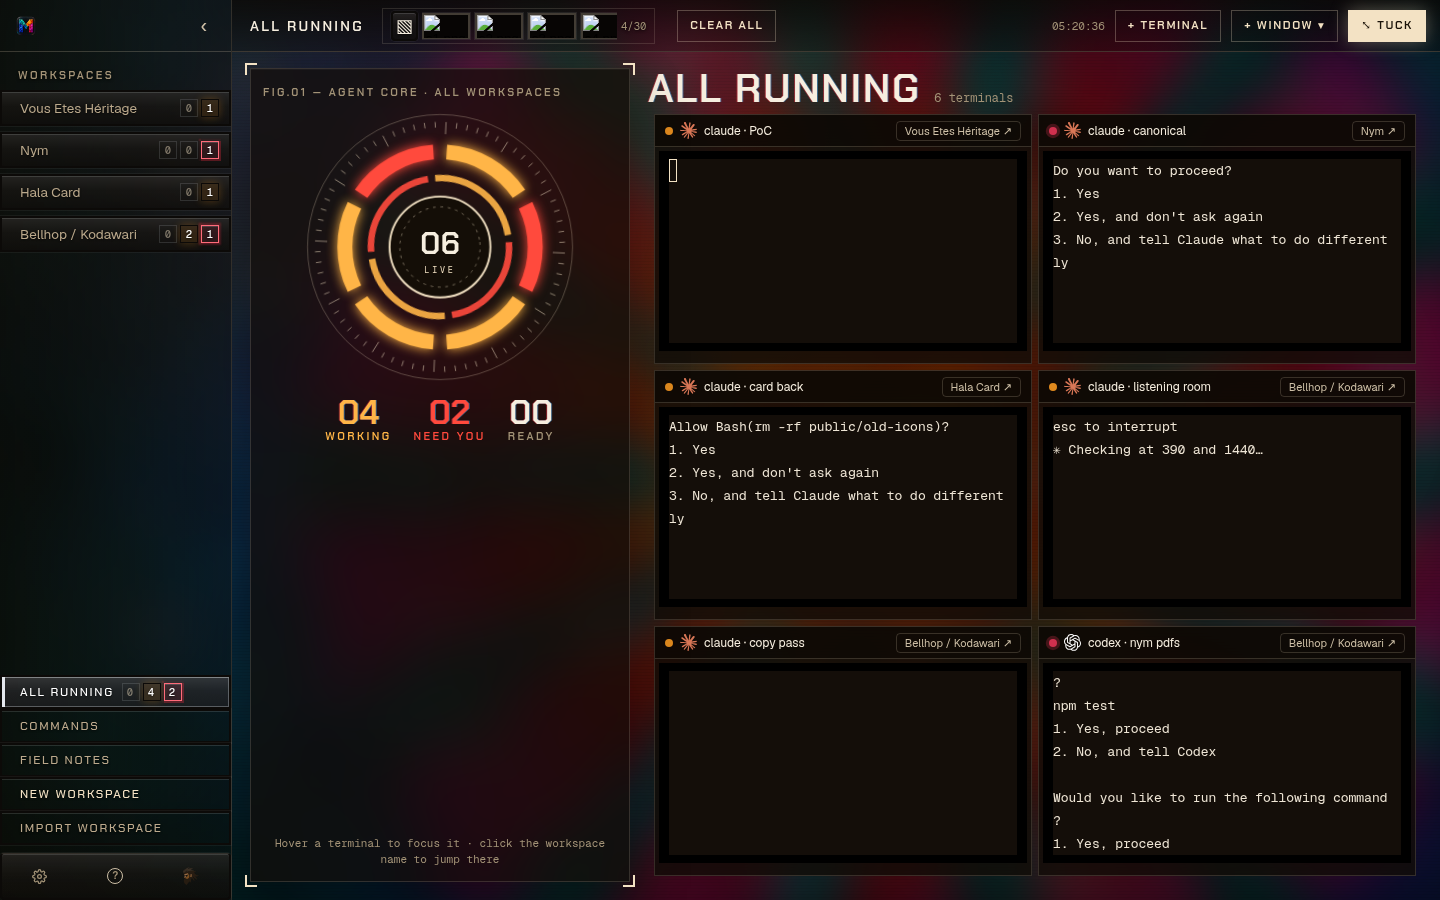
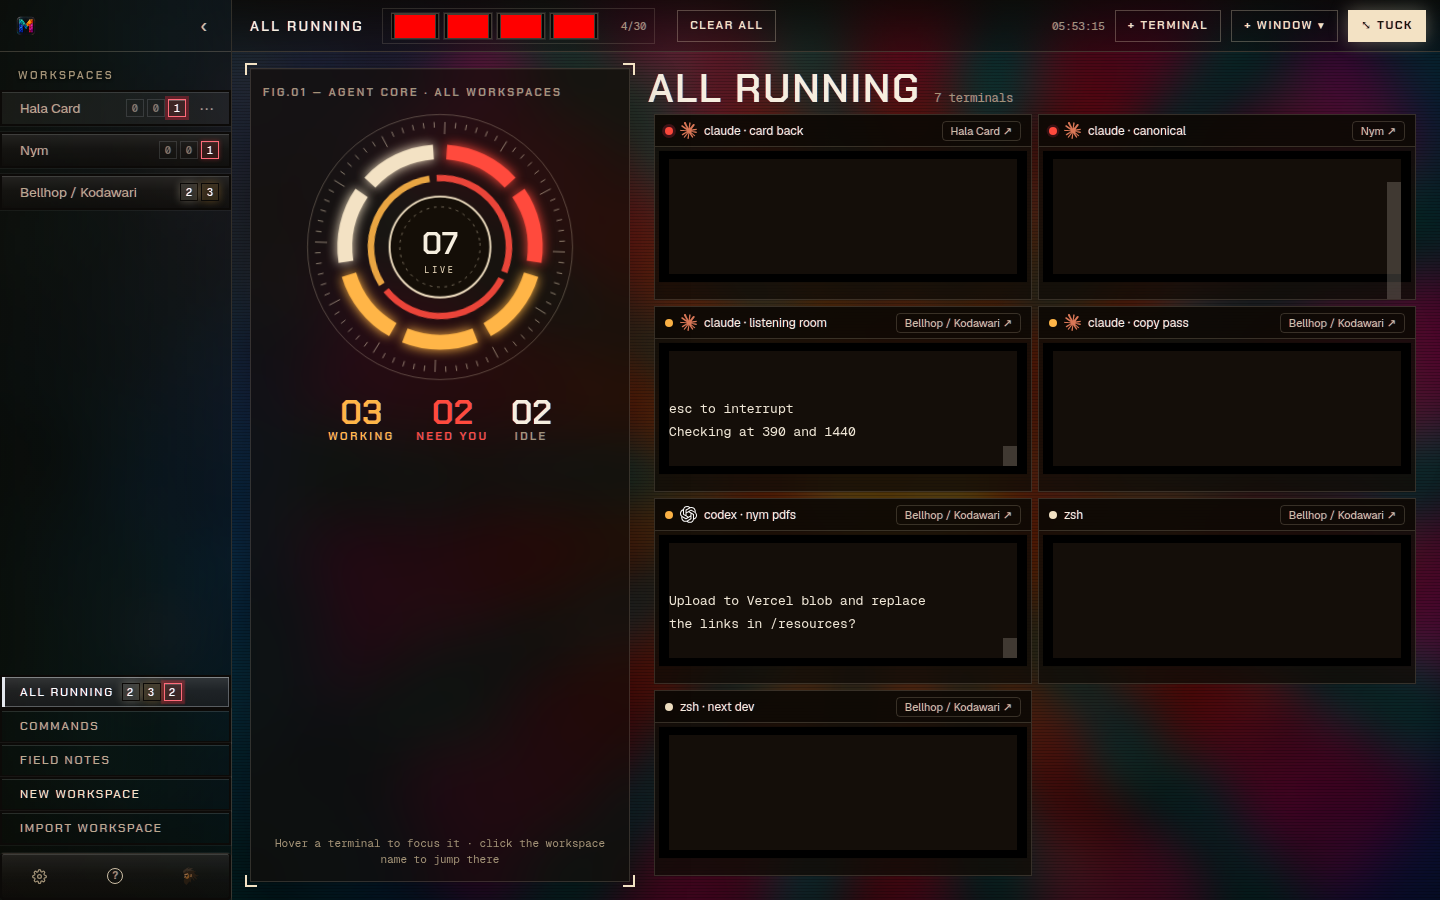
Update the redesign QA for the approval and chrome fixes.
Rechecks every round-1 item on the latest workshop branch and records what still fails.

diff --git a/qa/REPORT.md b/qa/REPORT.md
@@ -1,130 +1,112 @@
-# Mosaic redesign QA
+# Mosaic redesign QA — round 2
 
-**Score: 6/10.** The workshop frame is the right design, but the guide's own approval prompt is never detected, Approve leaves that alarm up, and the ring total, status chips, and usage grid do not match the guide.
+**Score: 7/10.** The round-1 approval alarm and the chrome checklist are fixed and rechecked; Deny on Claude's three-option menu still types "Yes, and don't ask again", and the ring is 03 beside the guide's 02/01/00 rather than 04.
 
-Reviewed PR #1 (`cursor/mosaic-redesign-6c1c` into `zen-panel`, commit `2d2cbbd`) against the design-guide image and the mockup source. The bar for done is 9/10. This branch does not change production code.
+Rebased `qa/mosaic-redesign-review` onto `afacbf6` (`cursor/mosaic-redesign-6c1c`). The builder's checklist was not taken as evidence. Same method as round 1: Vite at 1440×900, Tauri stubbed, prompt text written through the `pty-data-*` listener. The guide was remeasured from the mockup after boot: Working **02**, Need you **01**, Ready **00**, ring **04**.
 
-## How it was tested
+## Verified fixed
 
-Both UIs were shot at **1440×900**, the mockup's unscaled frame (`--fit` is 1 at that size).
-
-- Reference: the uploaded mockup, served locally, after the boot animation settled (`#cWork` reads `02`). Shots are `qa/screenshots/ref-*.png`.
-- App: `npm run dev` (Vite on `127.0.0.1:1420`) in headless Chrome. Outside the Tauri webview, `window.isTauri` and `__TAURI_INTERNALS__.invoke` were stubbed in the page so `pty_statuses`, `pty_write`, `provider_usage`, and `list_screenshots` could be driven. Prompt text was written into xterm through the `pty-data-*` listener, the same path a PTY uses. Shots are `qa/screenshots/app-*.png`.
-- Field notes absence used the real tree: `my-clients.js`, `workstreams-data.js`, and `files/` are not on this machine. A second load answered those script URLs only inside the browser, to prove the dashboard reads the page rather than a hardcoded total.
-- `npx tsc --noEmit` passed. There is no lint script and no frontend test script. `cargo check` is below.
-
-## P1 — functional failures
-
-### 1. The design guide's approval prompt is never detected
-
-The incoming card in the guide is **Hala Card · Allow Bash(rm -rf public/old-icons)?** with Approve / Deny / Open. That sentence, including when it is followed by `1. Yes` / `2. No, and tell Claude…`, is classified `unknown`.
-
-`src/lib/agents.ts:128-160`. Claude is recognized only by `do you want to proceed|make this edit|run this|create` (line 130) or by `waiting for your input` / `permission required` (line 160). `Allow Bash(…)?` matches none of those.
-
-Checked two ways:
-
-- Imported the app's own `detectScreenState` in the page. `Allow Bash(rm -rf public/old-icons)?` plus numbered Yes/No returned `{ state: "unknown" }`. `Do you want to proceed?` returned `attention` with approve keystroke `1\r`. Codex `Would you like to run the following command?` returned `attention` with `1\r` / `2\r`.
-- Wrote the Allow Bash screen into Hala Card's terminal, padded so it sits in the last 24 rows (`screenWindow` in `agents.ts:93`). The incoming card showed Nym's "Do you want to proceed?", and Hala's sidebar chip stayed off the attention color. All Running still showed the Allow Bash text under a working dot (`qa/screenshots/app-all.png`).
-
-Expected: that prompt is the red incoming card and a red terminal, with Approve / Deny / Open, as in the guide and `qa/screenshots/ref-workspace.png`.
-
-Hooks can still force `attention`, but then `sessionToMeta` falls through to the default offer (`Waiting for approval`, `y\r` / `n\r`) because `extractApproval` only runs when the screen state is already `attention` (`Terminal.tsx:238-239`). The question on screen is dropped.
-
-### 2. Approve sends the key and leaves the alarm up
-
-On Bellhop, the incoming card showed **Nym · Claude Code · just now · Do you want to proceed?** Approve called `pty_write` with `1\r`. The card, the Approve button, and the prompt were still there immediately afterward (`qa/screenshots/app-bellhop.png` then `qa/screenshots/app-after-approve.png`).
-
-`classifyStatus` returns `attention` whenever the screen still says so, before it looks at the answer (`src/lib/agents.ts:180-181`). `answered` is only applied to hook/notification state on the next line. `App.tsx:212-213` says answering should drop the red immediately. It does not, for the screen path that actually draws this card.
-
-Expected: the guide's Approve dismisses the waiting treatment (the mockup removes the alarm and the action row). A second click sends `1` again into a terminal that is still painted as waiting.
-
-Deny and Reply do send the right bytes (below). They have the same latch, so the red chrome stays until the screen text itself changes.
-
-## P2 — visual mismatches against the guide
-
-### 3. Ring center adds in shells the three labels do not show
-
-On Bellhop the ring read **05** beside **02 Working / 01 Need you / 00 Ready** (`qa/screenshots/app-bellhop.png`). The guide's same board is **04** beside **02 / 01 / 00** (`qa/screenshots/ref-workspace.png`).
-
-`WorkspaceDashboard.tsx:51` sets the center to `terminals + working + ready + attention`. The two zsh panes are `terminal` status, so they inflate the center and do not appear in the three labels. All Running does the same sum (`AllRunningView.tsx:57`, center **06** beside 04 working and 02 need-you).
-
-Expected: the guide's center number is the workspace figure printed in the ring (04 on that board), with the three labels reading 02 / 01 / 00.
-
-### 4. Status chips use the old jewel palette
-
-The first live sidebar chip computed to `rgb(47, 111, 214)` (`#2f6fd6`). That is `STATUS_COLORS.terminal` in `src/lib/agents.ts:255-262` (`terminal #2f6fd6`, `running #e08a1e`, `attention #d0304e`). The guide's chips are cream `#F3E2C4`, amber `#FFB547`, and ruby `#FF4A3D` (mockup `counters()`, and the same tokens the ring already uses in `src/lib/approvals.ts` `TONE`). Tab dots take the same `STATUS_COLORS` via `--tab-status`.
-
-Expected: cream / amber / ruby chips and dots, matching the ring and the guide.
-
-### 5. All Running's third figure is Ready, and the guide's is Idle
-
-`AllRunningView.tsx:68` labels the third number **Ready** and binds it to `counts.ready`. The guide and `qa/screenshots/ref-all.png` label it **Idle** (muted), with the footnote "click ↗ to jump to its workspace". The app's footnote says "click the workspace name" (`AllRunningView.tsx:70`). The jump itself works.
-
-### 6. Usage sits in half a row and wraps to two columns
-
-Five panels become a 3-then-2 grid (`WorkspaceGrid.tsx:159`, `Math.ceil(Math.sqrt(n))`), and the second row splits 50/50. Measured usage track: `261.5px 261.5px` (`UsagePanel.css:33-34`, `minmax(220px, 1fr)`). The guide gives Hot Links one column and AI usage the other two, with Claude, Codex, Cursor, Antigravity, and DeepSeek in one row (`qa/screenshots/ref-workspace.png`). DeepSeek is below the fold in `qa/screenshots/app-bellhop.png`.
-
-The card contents (rate-limit copy, percents, reset lines, DeepSeek balance) render when `provider_usage` returns data. The frame they sit in does not match.
-
-### 7. Commands is a stack of cards, and the guide is a heat table
-
-Search works (`qa/screenshots/app-commands.png` filters to the postgres command). The guide is one panel of rows: heat pips, command, label, category, count, Copy (`qa/screenshots/ref-commands.png`). The app is separate glass cards.
-
-### 8. The CRT grade is a light wash
-
-Workshop tokens, Chakra Petch / Geist, square panels, corner brackets, and the glass photo are in place. The guide also puts a red/blue split on every glyph (mockup `.app *` text-shadow), a heavier scanline, grain, and RGB subpixel lines. The app applies the split only through `.ca` (`src/workshop.css:64-66`) and a scan at opacity 0.28 (`workshop.css:82-85`). Body copy in the shots is clean, which reads as a different picture from `qa/screenshots/ref-workspace.png`.
-
-### 9. The Codex sentence printed in the guide is also unrecognized
-
-`Upload to Vercel blob and replace the links in /resources?` returns `unknown`. The real Codex TUI line `Would you like to run the following command?` is recognized, and that pane did grow an Approve / Deny / Reply bar (`qa/screenshots/app-bellhop.png`). The sentence in the guide's middle terminal would not.
-
-## P3 — polish
-
-- Age copy is **just now** for under a minute (`src/lib/approvals.ts:14-16`). The guide's incoming card uses a minute stamp (`0m ago` on the design image, `6m ago` in the mockup source).
-- All Running does not toggle back to the workspace. Other nav items do (`App.tsx:414-416`). All Running always sets `view` to `"all"` (`App.tsx:443`). A second click stayed on All Running. The mockup returns to the workspace.
-- Terminal header icons are a briefcase and an eraser. The guide uses ⌸ and ⌫.
-- The screenshot strip adds a folder glyph before the thumbs. The guide is thumbs plus a count.
-
-## What passed
-
-Checked in the running UI unless noted as a diff or typecheck.
-
-- **Sidebar counts** render per workspace and on All Running, and they change when sessions change (Bellhop went from `2,3` to `0,3` after the zsh sessions dropped out of `pty_statuses`).
-- **Status ring** shows Working / Need you / Ready from live status, with the spinning ticks and the "THIS WORKSPACE" label.
-- **Incoming card** appears for a prompt the parser knows (`Do you want to proceed?`), from another workspace. Approve writes `1\r`. Deny writes `2\r`. Open switched the title from Bellhop / Kodawari to Hala Card.
-- **Reply** on the visible Codex pane opened the field and `pty_write` received `ship the pdfs\r`.
-- **Hot links**: search for "vercel" hid mixcloud; A–Z ordered Instagram, then Kodawari · Vercel, then the pdf, then mixcloud; Launch issued `open_path` once per item (`qa/screenshots/app-search.png`).
-- **AI usage** renders five providers from `provider_usage` (layout issue is P2).
-- **Nav**: All Running, Commands (search), Field notes, New workspace (count increased, title became Workspace 4), Import workspace (a `.json` bundle named "Imported QA" landed in the sidebar), Settings, What's this, Caveman Creative.
-- **Clear all** hid the strip and read "Cleared · new shots will show up here".
-- **+ Terminal**, **+ Window** (Terminal, Launcher board, AI usage, Field notes, Zen Studio), and **Tuck** are in the top bar. Choosing Zen Studio added a Zen Studio panel (`qa/screenshots/app-window-menu.png`).
-- **Field notes, files absent**: the dashboard says "No client data on this machine…" and does not show 92/133 (`qa/screenshots/app-empty.png`). The missing scripts 404 and do not throw. With a browser-only client fixture, the dashboard read the iframe's postMessage as **1 / 3**, **1 active · 2 remaining**, short name VEH, and the Field notes view listed that client (`qa/screenshots/app-notes.png`).
-- **Diff hygiene**: `origin/zen-panel...HEAD` does not touch `my-clients.js`, `workstreams-data.js`, or `public/fieldnotes/files/`. `.gitignore` gains `public/fieldnotes/files/`.
-- **Drag a panel onto a workspace**: Bellhop went from 5 panels to 4, and Hala Card gained the "claude · listening room" terminal (`qa/screenshots/app-drag.png`). `movePanelToWorkspace` in `src/store/workspaces.ts:145`.
-- **Tab rename**: a `dblclick` on the Codex tab opened the input seeded with `codex · nym pdfs`.
-- **Settings** keeps the screenshot-folder copy ("it no longer scans Desktop by default"), the macOS file-access row, themes, launch at login, and Claude hooks (`qa/screenshots/app-settings.png`). `list_screenshots` returns an empty list when no folder is set (`src-tauri/src/screenshots.rs:35-42`).
-- **`npx tsc --noEmit`** exited 0.
-
-## Needs Mac verification
-
-These paths were read, not exercised against macOS, a live agent, or a logged-in provider.
-
-- **Live Claude / Codex approval.** The web UI writes the choice through `pty_write` (`src/lib/approvals.ts:9-11`). Whether Claude's or Codex's TUI accepts that key, and whether a real full-screen prompt lands inside the last 24 rows (`agents.ts:93`), needs a Mac session. The Allow Bash miss above does not need a Mac; it fails on the string alone.
-- **Claude hooks and Codex OSC notifications** (`src-tauri/src/agents.rs`, `Terminal.tsx:209-226`). A hook-reported `attention` still will not clear on answer while the screen state remains `attention` (P1.2).
-- **Provider usage cards** from real logins (`UsagePanel.tsx` `provider_usage`). The layout bug is visible without them.
-- **Tuck.** The button calls `toggleScreenshotMode` (`App.tsx:110-151`): leave fullscreen, shrink to 360×200, pin to the bottom-right of the current monitor, `setAlwaysOnTop(true)`. `screenshotMode` is set true before `setSize` / `setPosition`. If either throws, the next click takes the restore branch. Geometry and the global shortcut (`toggle-screenshot-mode`) need a Mac window.
-- **Screenshot thumbnails** go through `sips` (`screenshots.rs:61`). This Linux run cannot. Clear-all behavior was tested with stubbed file metadata.
-- **Desktop permission.** With no folder chosen, the gallery does not read Desktop (`screenshots.rs:36-42`). `open_privacy_settings` (`src-tauri/src/lib.rs:191-210`) tries the Files and Folders URL, then Full Disk Access, then Security. Those URLs were not opened.
-- **Zen Studio.** The menu adds the panel. The panel polls `http://localhost:3003/` and opens `/Applications/Zen Studio.app` (`src/components/ZenPanel.tsx:13-50`). Embedding the real app was not run.
-
-## Tooling
-
-| Check | Result |
+| Item | What I saw |
 | --- | --- |
-| `npx tsc --noEmit` | Pass |
-| Frontend lint | No `lint` script in `package.json` |
-| Frontend tests | No `test` script |
-| `cargo +stable check` (rustc 1.99.1) | Pass, `Finished dev profile` in 37s. The default rustc 1.83 cannot parse a transitive `edition2024` manifest, and the check needs the Linux WebKit/GTK dev packages (`gdk-3.0`, `javascriptcoregtk-4.1`). Those are environment requirements, not changes in this PR. |
-| `cargo +stable test` | Pass. One unit test, `screenshots::tests::gallery_filters_sorts_and_limits_to_thirty`. |
+| P1 Allow Bash card | Incoming card: **Hala Card · Claude Code · 0m ago · Allow Bash(rm -rf public/old-icons)?** with Approve, Deny, Open. The bytes were ANSI-colored (`ESC[31m…ESC[0m`) and xterm still produced the question. `qa/screenshots/app-bellhop.png`. |
+| P1 Approve clears that card | Approve wrote `1\r`. The Hala card left. A second, different prompt (Nym, "Do you want to proceed?") stayed, which is the queue, not the same alarm. `qa/screenshots/app-after-approve.png`. |
+| P1 Deny clears | Deny on that Nym card wrote `2\r` (its menu is `1. Yes` / `2. No`) and the card became **Nothing waiting**. `qa/screenshots/app-after-deny.png`. |
+| Codex upload sentence | `Upload to Vercel blob and replace / the links in /resources?` is attention. The Codex pane showed the red Approve / Deny / Reply bar. Approve wrote `y\r` (no numbered Yes on that sentence) and the bar left. |
+| Scrollback | After the answer, burying Allow Bash under 40 lines of ordinary output did not reopen the card. Painting the same question at the bottom again did reopen it. That matches `App.tsx:233-236`: once the prompt leaves the live window the dismissal is dropped, so a new paint can light it; text that has scrolled out of the last screenful does not. |
+| Chips | Active workspace chips computed to `rgb(243, 226, 196)`, `rgb(255, 181, 71)`, `rgb(255, 74, 61)`. |
+| Idle + toggle | All Running's third label is **Idle**. A second click returned the title to Bellhop / Kodawari. `qa/screenshots/app-all.png`. |
+| Usage row | Five cards (Claude, Codex, Cursor, Antigravity, DeepSeek) share one y position. Hot Links is 378px wide and AI usage is 768px, the extra columns. `qa/screenshots/app-bellhop.png`. |
+| Commands | One `.commands-table` with heat pips, command, label, category, count, Copy. Search "postgres" left `npm run db:local`. `qa/screenshots/app-commands.png`. |
+| Age | Incoming meta is `0m ago`. |
+| Glyphs | Visible terminal headers' toolbox and clear buttons read ⌸ and ⌫. |
+| Folder glyph | No `.screenshot-folder` in the strip. Empty-folder copy still offers choosing a folder. |
+| CRT grade | `.g-grain`, `.g-rgb`, and `.g-scan` at opacity 0.55 are in the tree. Title and label `text-shadow` is the red/blue split (`workshop.css:98-100`). Terminal canvases and fields are excluded (`workshop.css:101-107`). |
+| Regressions | Sidebar chips showed 2 shells / 2 working / 1 attention and tracked the answers. Hot links search, A–Z order, and Launch (4 `open_path` calls) worked. Drag moved a panel from Bellhop (6→5) onto Hala (1→2). Tab double-click opened the rename field. Window → Zen Studio added the panel. Field notes with the gitignored files absent says there is no client data and does not show 92/133. `git diff 2d2cbbd..afacbf6` does not touch `my-clients.js`, `workstreams-data.js`, or `files/`. |
 
-Viewport for every shot: 1440×900.
+`npx tsc --noEmit` passed. `cargo +stable check` passed. `cargo +stable test` passed (`gallery_filters_sorts_and_limits_to_thirty`).
+
+## Ring: the guide is 02/01/00 and 04, and those are not the same sum
+
+Remeasured from the mockup (`qa/screenshots/ref-workspace.png`): center **04**, labels **02 / 01 / 00**. 2+1+0 is 3, so the guide's four figures are not a sum. The sidebar on that board shows 4 terminal sessions.
+
+On a matching mix (2 working, 1 need-you, 0 ready, 2 shell panes) the app reads center **03**, labels **02 Working / 01 Need you / 00 Ready** (`WorkspaceDashboard.tsx:51-53`, `qa/screenshots/app-bellhop.png`). The three labels match the guide. The center is their sum, so it cannot also be the guide's 04 while Ready stays 00. Shells are no longer added in; that part of the old bug is fixed.
+
+The checklist's **04 beside 02/01/01** is what this formula produces when one agent is Ready. It is internally consistent. It is not the board printed in the guide, which has Ready at 00.
+
+All Running is consistent with the same rule: center 07 beside 03 Working / 02 Need you / 02 Idle, and 3+2+2=7 (`AllRunningView.tsx:57-69`). Idle there is shells plus ready.
+
+## New defects
+
+### P1 — Deny on Claude's three-option menu types "Yes, and don't ask again"
+
+`Do you want to proceed?` with
+
+```
+1. Yes
+2. Yes, and don't ask again
+3. No, and tell Claude what to do differently
+```
+
+is detected, and Approve is `1\r`. Deny is `2\r`.
+
+`extractApproval` treats a line as No when it contains `no`, `deny`, `don't`, or `block` (`src/lib/agents.ts:284`). Option 2 matches `don't`, and it is found before option 3. Deny would type the yes that also stops future prompts.
+
+Expected: Deny sends `3\r`, the line that is actually No. A two-option menu (`1. Yes` / `2. No, and tell Claude`) does send `2\r`, and that path was checked live.
+
+### P2 — Any "do you want to …?" sentence lights the alarm
+
+`I already asked do you want to proceed? The user said yes yesterday.` is `attention`, with Approve `1\r` and Deny `2\r`.
+
+The choice half of the Claude rule includes a bare `\?` (`src/lib/agents.ts:138`), and a second rule matches the question with no option rows (`src/lib/agents.ts:171`). The comment above the rule table (`agents.ts:110-112`) says anchoring on the question alone matches an agent describing an approval. That is what this sentence is.
+
+Expected: a mention of the question in ordinary output stays off the red card. The live dialog, with its option rows or an `Allow Tool(...)?` line, is the card.
+
+### P2 — A split Allow line is shown as ")?"
+
+`Allow Bash(\nrm -rf public/old-icons\n)?` is detected, and the key is the full question, but `extractApproval` uses the last line that ends in `?` (`src/lib/agents.ts:279-285`). That line is `)?`, so the incoming card would title itself `)?`.
+
+The wrapped upload sentence has the same picker: the card prompt is `the links in /resources?` rather than the whole sentence. The one-line form `Upload to Vercel blob and replace the links?` is kept whole.
+
+Expected: the card shows the question the guide prints, including when the closing `?` sits on its own line.
+
+### P2 — Center is 03 where the guide prints 04
+
+Covered above. Labels 02/01/00 match. Center does not. `WorkspaceDashboard.tsx:53`.
+
+## P3
+
+- `Allow WebFetch?` with no parentheses is `unknown` (`src/lib/agents.ts:170` requires `(...)`). `Allow Edit(src/App.tsx)?` and `Allow Bash(...)?` are detected.
+- The usage header still says "updated just now" (`UsagePanel.tsx` `ago`, around the 138–143 definitions). The incoming card is `0m ago`. The guide's usage line is a minute stamp ("updated 2m ago").
+- The five usage cards fit one row and the Antigravity sentence wraps hard inside its fifth. Readable, tight.
+- Gemini `Allow execution of` is detected. The extracted prompt is the option row `1. Allow once`, same last-match behavior as the split Allow line.
+
+## Variants that did detect
+
+Checked through the app's own `detectScreenState` / `extractApproval`, plus the live ANSI Allow Bash write:
+
+- `Allow Bash(rm -rf public/old-icons)?` alone, and with `1. Yes` / `2. No` (approve `1\r`, deny `2\r`).
+- `Allow Edit(src/App.tsx)?`.
+- `Do you want to make this edit?` with Yes / No.
+- `Would you like to run the following command?`, `make the following edits?` (`Yes, just this once`), and `grant these permissions?`.
+- Codex option rows with the question scrolled off (`1. Yes, proceed` / `2. No, and tell Codex`).
+- Claude option rows with the question scrolled off.
+- The same Allow Bash line buried under 30 lines and followed by `esc to interrupt` stays `running`.
+- ANSI color bytes around Allow Bash still detect once xterm has interpreted them (the live card) and even on the raw string.
+
+## Needs a Mac
+
+Unchanged, and not claimed as done here: a live Claude or Codex TUI accepting the keystroke, real provider logins, Tuck's window geometry and always-on-top, `sips` thumbnails, the Desktop / Full Disk Access URLs, and Zen Studio actually serving on port 3003. The Zen menu still adds the panel.
+
+## Shots
+
+All 1440×900.
+
+- `qa/screenshots/ref-workspace.png` — guide, ring 04, labels 02/01/00
+- `qa/screenshots/ref-all.png`
+- `qa/screenshots/app-bellhop.png` — Allow Bash card, ring 03, five usage cards
+- `qa/screenshots/app-after-approve.png` — Hala cleared, Nym still queued
+- `qa/screenshots/app-after-deny.png` — Nothing waiting
+- `qa/screenshots/app-all.png` — Idle
+- `qa/screenshots/app-commands.png` — heat table, postgres search
+- `qa/screenshots/app-ring.png` — after the Codex answer, 03 Working / 00 Need you / 00 Ready
+- `qa/screenshots/app-drag.png`
